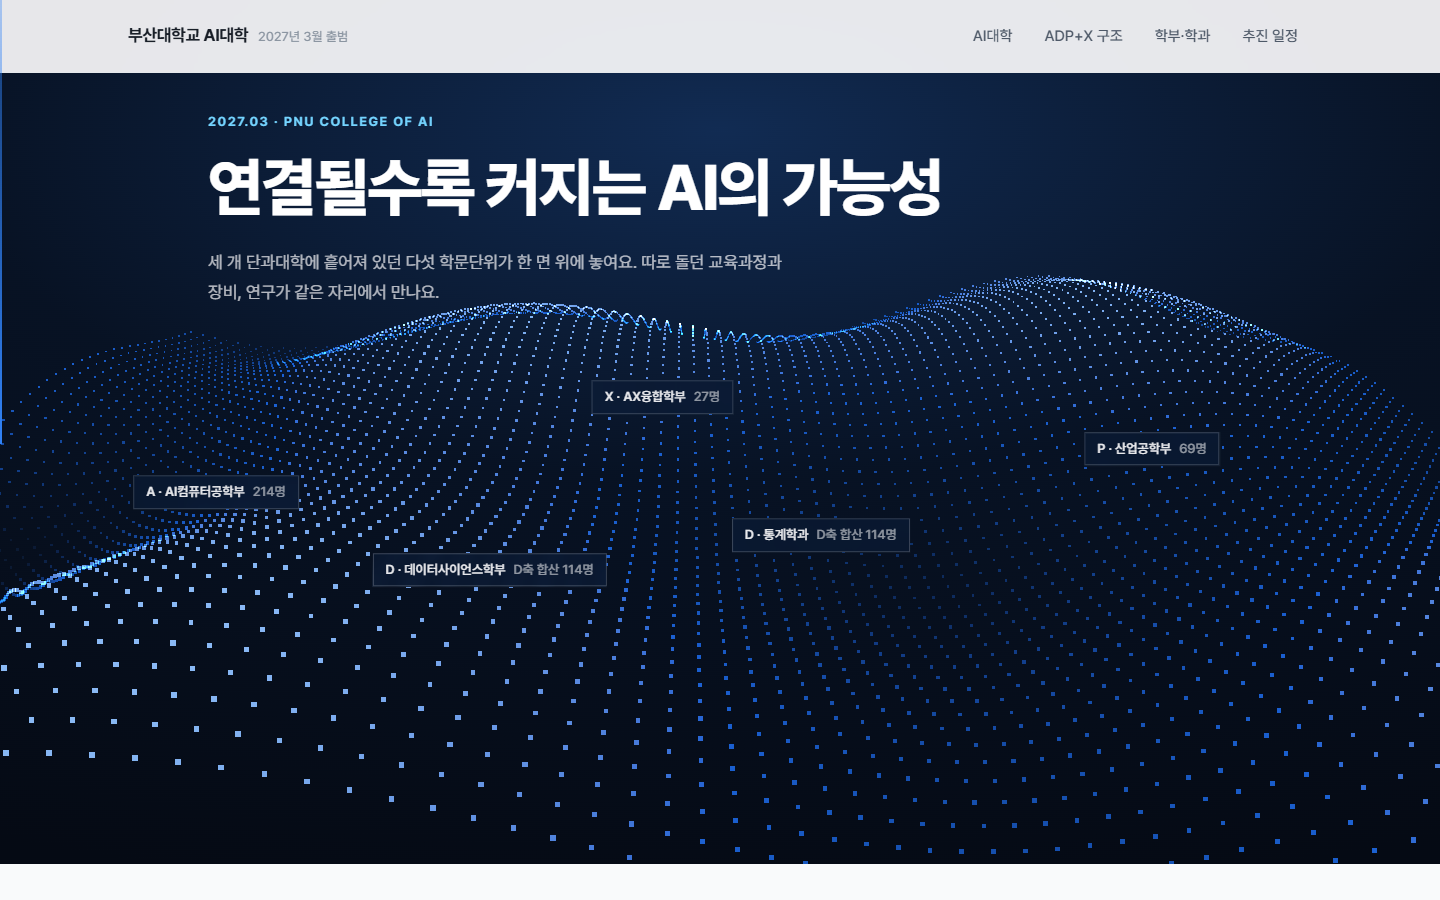
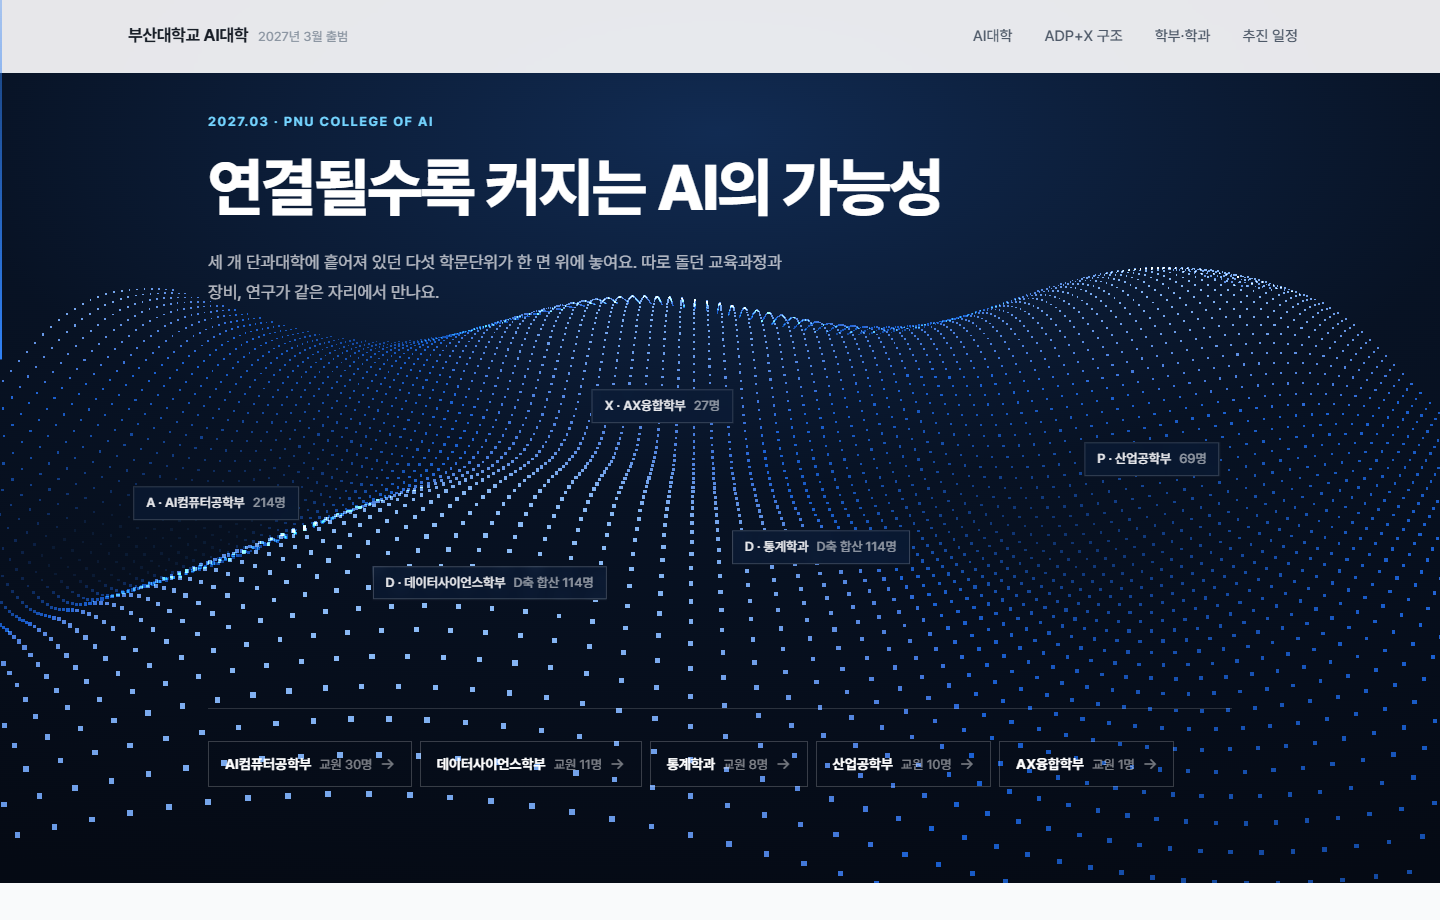
학부 레일을 걷고 파동 절에 합친다
세 부분을 다 붙이고 전체를 훑어보니 중복이 있었다. 학부 카드 레일과 입자
파동이 같은 다섯 이름을 연달아 말한다 — 「424명이 이 다섯 곳으로 들어와요」
다음에 「연결될수록 커지는 AI의 가능성」이 나오며 같은 다섯을 두 번 센다.

파동 쪽을 남겼다. 레일이 하던 일 중 남길 것은 학부 상세로 가는 링크뿐이라
파동 아래로 옮겼다. 레일이 주던 가로 움직임은 이번에 넣은 「AI대학의 장면들」
이 대신한다.

SchoolRailScene.jsx 는 지웠다 — 30회차에 만든 검사가 빌드에서 "연결 안 된
파일 1" 로 막아 세워 알았다. 그 검사가 잡으라고 만든 종류 그대로다.

  총 높이 29화면 → 25화면

Claude-Session: https://claude.ai/code/session_01DneFDYxx25DjwNJdj8uLH7

diff --git a/src/scenes/ConnectScene.jsx b/src/scenes/ConnectScene.jsx
@@ -1,4 +1,5 @@
-import { SCHOOLS, D_AXIS_SEATS } from '../data/schools'
+import { Link } from 'react-router-dom'
+import { SCHOOLS, D_AXIS_SEATS, facultyOf } from '../data/schools'
 import ParticleField from '../components/ParticleField'
 
 /*
@@ -63,6 +64,26 @@ export default function ConnectScene() {
           장비, 연구가 같은 자리에서 만나요.
         </p>
 
+        {/*
+          레일에서 옮겨온 것. 다섯 학문단위의 상세로 가는 유일한 입구라
+          레일을 걷어낼 때 같이 사라지면 안 된다.
+        */}
+        <ul className="mt-auto flex flex-wrap gap-2 border-t border-white/15 pt-8">
+          {SCHOOLS.map((school) => (
+            <li key={school.slug}>
+              <Link
+                to={`/ai-college/schools/${school.slug}`}
+                className="group flex items-baseline gap-2 rounded-[--radius-pill] border border-white/20 px-4 py-2.5 transition-colors duration-[--dur-base] hover:border-white/45 hover:bg-white/5"
+              >
+                <span className="text-[14px] font-bold text-white">{school.name}</span>
+                <span className="text-[13px] text-white/50">교원 {facultyOf(school).length}명</span>
+                <span aria-hidden="true" className="text-white/45 transition-transform duration-[--dur-base] group-hover:translate-x-0.5">
+                  →
+                </span>
+              </Link>
+            </li>
+          ))}
+        </ul>
       </div>
     </section>
   )

diff --git a/src/pages/Home.jsx b/src/pages/Home.jsx
@@ -4,7 +4,6 @@ import FactSheetScene from '../scenes/FactSheetScene'
 import BreatherScene from '../scenes/BreatherScene'
 import StructureScene from '../scenes/StructureScene'
 import ConnectScene from '../scenes/ConnectScene'
-import SchoolRailScene from '../scenes/SchoolRailScene'
 import FacultyScene from '../scenes/FacultyScene'
 import PartnerScene from '../scenes/PartnerScene'
 import ImpactScene from '../scenes/ImpactScene'
@@ -28,8 +27,6 @@ export default function Home() {
       <StructureScene />
 
       <BreatherScene />
-
-      <SchoolRailScene />
 
       <ConnectScene />
 
